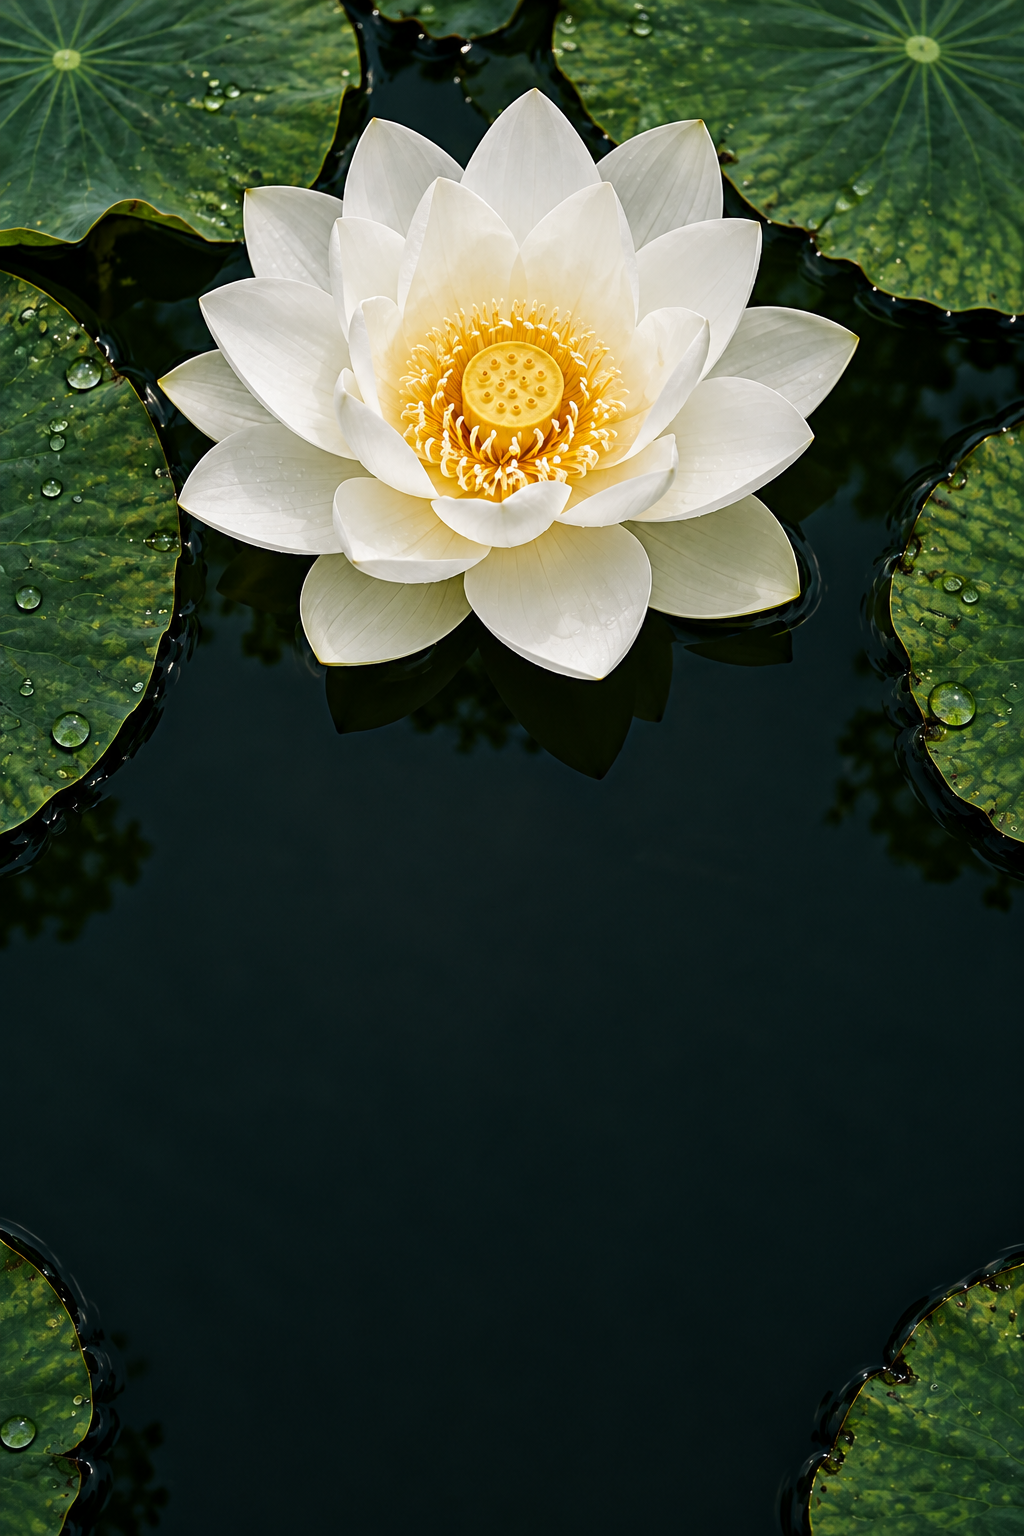
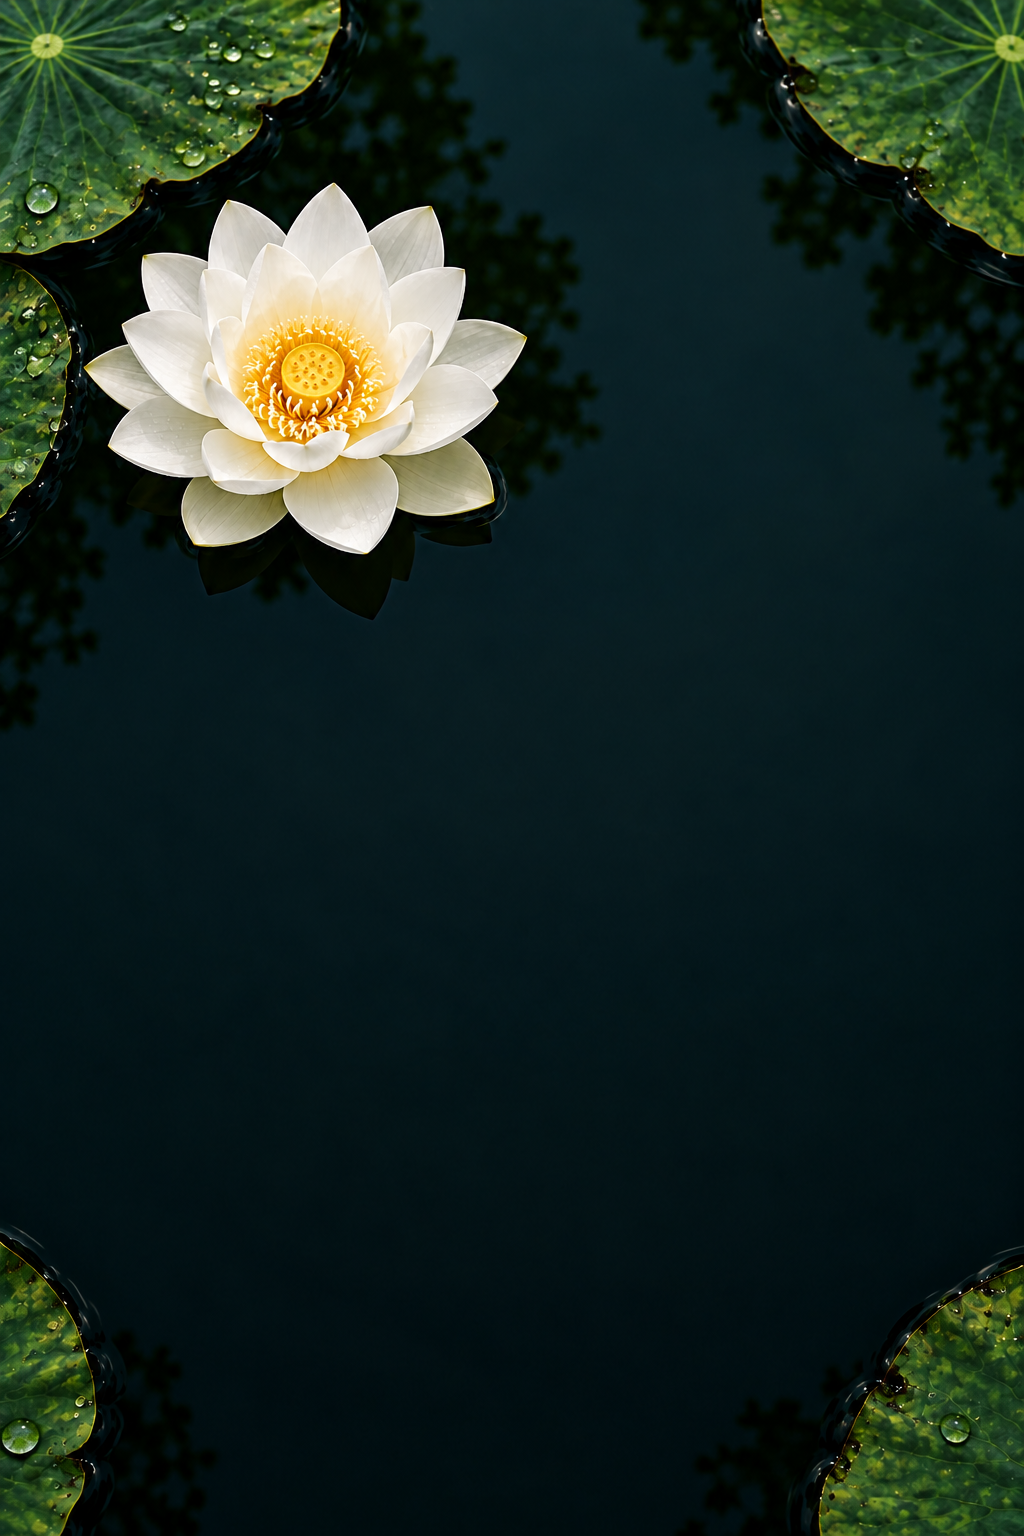
Refine lotus scale and carry the purple thread through the storefront

diff --git a/public/eko-thread.js b/public/eko-thread.js
@@ -1,0 +1,81 @@
+const thread = document.querySelector(".journey-thread");
+const path = thread?.querySelector("path");
+const main = document.querySelector("main");
+const footer = document.querySelector(".footer");
+let threadFrame;
+
+function drawThread() {
+  threadFrame = undefined;
+  if (!thread || !path || !main || !footer) return;
+
+  const root = document.body.getBoundingClientRect();
+  const width = root.width;
+  const height = root.height;
+  const box = (selector) => {
+    const rect = document.querySelector(selector).getBoundingClientRect();
+    return {
+      top: rect.top - root.top,
+      bottom: rect.bottom - root.top,
+      height: rect.height,
+    };
+  };
+  const hero = box(".reference-hero");
+  const story = box(".reference-story");
+  const history = box(".reference-history");
+  const closer = box("#closer");
+  const lotus = box("#meaning");
+  const product = box("#shirt");
+  const end = box(".footer");
+  const right = width - 10;
+  let route;
+
+  if (width > 1000) {
+    const y = (amount) => hero.top + hero.height * amount;
+    route = `M 0 ${y(0.34)}
+      C ${width * 0.1} ${y(0.45)}, ${width * 0.15} ${y(0.27)}, ${width * 0.29} ${y(0.4)}
+      S ${width * 0.4} ${y(0.6)}, ${width * 0.48} ${y(0.52)}
+      C ${width * 0.59} ${y(0.4)}, ${width * 0.62} ${y(0.29)}, ${width * 0.65} ${y(0.48)}
+      S ${width * 0.83} ${y(0.73)}, ${right} ${y(0.58)}
+      C ${width - 2} ${y(0.7)}, ${right} ${y(0.8)}, ${right} ${hero.bottom - 15}`;
+  } else {
+    route = `M 0 ${hero.top + hero.height * 0.34}
+      C ${width * 0.25} ${hero.top + hero.height * 0.45}, ${width * 0.55} ${hero.top + hero.height * 0.27}, ${right} ${hero.top + hero.height * 0.4}
+      L ${right} ${story.top + story.height * 0.3}
+      C ${right} ${story.top + story.height * 0.55}, ${width * 0.25} ${story.top + story.height * 0.55}, 10 ${story.top + story.height * 0.73}
+      L 10 ${history.top + history.height * 0.3}
+      C 10 ${history.top + history.height * 0.5}, ${width * 0.8} ${history.top + history.height * 0.47}, ${right} ${history.top + history.height * 0.6}
+      L ${right} ${history.bottom - 15}`;
+  }
+
+  route += ` C ${right} ${closer.top}, ${width - 4} ${closer.top + closer.height * 0.6}, ${right} ${closer.bottom - 25}`;
+
+  if (width > 700) {
+    route += ` C ${right} ${lotus.top - 5}, ${width * 0.28} ${lotus.top - 10}, ${width * 0.18} ${lotus.top + 40}
+      C ${width * 0.05} ${lotus.top + lotus.height * 0.42}, ${width * 0.36} ${lotus.top + lotus.height * 0.73}, ${width * 0.43} ${lotus.top + lotus.height * 0.82}
+      C ${width * 0.48} ${lotus.top + lotus.height * 0.91}, ${width * 0.8} ${lotus.bottom - 35}, ${right} ${lotus.bottom}`;
+  } else {
+    route += ` C ${right} ${lotus.top + 10}, 8 ${lotus.top - 5}, 8 ${lotus.top + 25}
+      C 2 ${lotus.top + lotus.height * 0.3}, 12 ${lotus.top + lotus.height * 0.6}, 8 ${lotus.bottom - 20}
+      C 8 ${lotus.bottom + 15}, ${right} ${product.top - 15}, ${right} ${product.top + 15}`;
+  }
+
+  route += ` C ${width - 3} ${product.top + product.height * 0.35}, ${width - 20} ${product.top + product.height * 0.65}, ${right} ${product.bottom}
+    C ${right} ${end.bottom - 12}, ${width * 0.93} ${end.bottom - 12}, ${width * 0.84} ${end.bottom - 12}`;
+
+  thread.setAttribute("viewBox", `0 0 ${width} ${height}`);
+  path.setAttribute("d", route);
+}
+
+function scheduleThread() {
+  if (threadFrame === undefined)
+    threadFrame = requestAnimationFrame(drawThread);
+}
+
+if (thread && main && footer) {
+  const observer = new ResizeObserver(scheduleThread);
+  observer.observe(main);
+  observer.observe(footer);
+  addEventListener("resize", scheduleThread);
+  document.fonts.ready.then(scheduleThread);
+  scheduleThread();
+}

diff --git a/public/eko-editorial.css b/public/eko-editorial.css
@@ -2,6 +2,7 @@
   --font-display: georgia, serif;
   --color-stage: #deddd9;
   --color-display-accent: #71637e;
+  --color-thread: #a08ab2;
 }
 
 .eko-final .topbar {
@@ -212,7 +213,7 @@
 
 .reference-thread path {
   fill: none;
-  stroke: #a08ab2;
+  stroke: var(--color-thread);
   stroke-width: 1.5;
   vector-effect: non-scaling-stroke;
 }
@@ -526,9 +527,30 @@
 
 .guide-thread {
   height: 60px;
-  border-top: 1.5px solid #a08ab2;
+  border-top: 1.5px solid var(--color-thread);
   border-radius: 50%;
   margin-block: 30px;
+}
+
+body.eko-final {
+  position: relative;
+}
+
+.journey-thread {
+  position: absolute;
+  inset: 0;
+  width: 100%;
+  height: 100%;
+  z-index: 5;
+  overflow: hidden;
+  pointer-events: none;
+}
+
+.journey-thread path {
+  fill: none;
+  stroke: var(--color-thread);
+  stroke-width: 1.5;
+  vector-effect: non-scaling-stroke;
 }
 
 .lotus-section {
@@ -536,8 +558,8 @@
   isolation: isolate;
   display: flex;
   align-items: center;
-  min-height: 850px;
-  padding-block: 120px;
+  min-height: 620px;
+  padding-block: 80px;
   overflow: hidden;
   background: #0b1c17;
   color: #fff;
@@ -566,19 +588,20 @@
 
 .lotus-layout {
   display: grid;
-  grid-template-columns: 1fr 1fr;
-  gap: 70px;
+  grid-template-columns: 0.8fr 1fr;
+  gap: 24px;
+  max-width: 1120px;
 }
 
 .lotus-copy {
   grid-column: 2;
-  max-width: 590px;
+  max-width: 565px;
   justify-self: end;
 }
 
 .lotus-title {
   font-family: var(--font-display);
-  font-size: clamp(42px, 4.6vw, 72px);
+  font-size: clamp(38px, 3.7vw, 58px);
   font-weight: 400;
   line-height: 1.03;
   letter-spacing: -0.055em;
@@ -625,13 +648,14 @@
 
 @media (width <= 700px) {
   .lotus-section {
-    min-height: 1040px;
-    padding-block: 470px 85px;
-    align-items: end;
+    min-height: 640px;
+    padding-block: 55px 75px;
   }
 
   .lotus-section::after {
-    background: linear-gradient(#07110e00 20%, #07110e99 46%, #07110ef2 76%);
+    background:
+      linear-gradient(90deg, #07110e11, #07110e77),
+      linear-gradient(#07110e00 15%, #07110e99 46%, #07110ef2 76%);
   }
 
   .lotus-image {
@@ -639,19 +663,28 @@
   }
 
   .lotus-layout {
-    display: block;
+    display: grid;
+    grid-template-columns: 0.85fr 1fr;
+    gap: 18px 16px;
   }
 
   .lotus-copy {
-    max-width: none;
+    display: contents;
+  }
+
+  .lotus-copy > .eyebrow,
+  .lotus-title {
+    grid-column: 2;
   }
 
   .lotus-title {
-    font-size: clamp(38px, 10vw, 58px);
-    margin-block: 24px;
+    font-size: clamp(28px, 7vw, 42px);
+    margin: 0 0 12px;
   }
 
   .lotus-copy > p:not(.eyebrow) {
+    grid-column: 1 / -1;
+    margin-top: 0;
     font-size: 15px;
     line-height: 1.75;
   }

diff --git a/public/index.html b/public/index.html
@@ -22,11 +22,20 @@
     <link rel="stylesheet" href="eko-finish.css" />
     <link rel="stylesheet" href="eko-editorial.css" />
     <script src="eko-motion.js" defer></script>
+    <script src="eko-thread.js" defer></script>
   </head>
 
   <body class="postmodern eko-final">
     <a class="skip" href="#main">Skip to content</a>
 
+    <svg
+      class="journey-thread"
+      aria-hidden="true"
+      focusable="false"
+      preserveAspectRatio="none"
+    >
+      <path />
+    </svg>
     <main id="main">
       <div class="reference-panels">
         <section class="reference-hero" aria-labelledby="hero-title">
@@ -66,14 +75,6 @@
             fetchpriority="high"
           />
           <a class="reference-scroll" href="#closer">Scroll to look within ↓</a>
-          <svg
-            class="reference-thread thread-one"
-            viewBox="0 0 400 800"
-            preserveAspectRatio="none"
-            aria-hidden="true"
-          >
-            <path d="M-40 255 C80 375 80 255 225 330 S400 365 450 375" />
-          </svg>
         </section>
         <section
           id="story"
@@ -92,16 +93,6 @@
             Not everything<br />we carry<br /><em>can be seen.</em>
           </h2>
           <p class="reference-story-foot">There is strength in continuing.</p>
-          <svg
-            class="reference-thread thread-two"
-            viewBox="0 0 400 800"
-            preserveAspectRatio="none"
-            aria-hidden="true"
-          >
-            <path
-              d="M220 -30 C180 60 460 20 360 230 S350 355 210 420 S80 365 -30 375"
-            />
-          </svg>
         </section>
         <section class="reference-history" aria-labelledby="history-title">
           <img
@@ -132,14 +123,6 @@
               affiliation or endorsement.
             </p>
           </div>
-          <svg
-            class="reference-thread thread-three"
-            viewBox="0 0 400 800"
-            preserveAspectRatio="none"
-            aria-hidden="true"
-          >
-            <path d="M-20 540 C85 465 155 565 280 475 S380 405 440 460" />
-          </svg>
         </section>
       </div>
       <div class="reference-intro frame">

diff --git a/tests/browser/thread.spec.js b/tests/browser/thread.spec.js
@@ -1,0 +1,54 @@
+import { test, expect } from "@playwright/test";
+
+test("the continuous thread reaches the lotus and footer after layout changes", async ({
+  page,
+}) => {
+  await page.emulateMedia({ reducedMotion: "reduce" });
+  await page.goto("/");
+  const coverage = () =>
+    page.evaluate(() => {
+      const svg = document.querySelector(".journey-thread");
+      const path = svg.querySelector("path");
+      const bounds = svg.getBoundingClientRect();
+      const view = svg.viewBox.baseVal;
+      const lotus = document.querySelector("#meaning").getBoundingClientRect();
+      const footer = document.querySelector(".footer").getBoundingClientRect();
+      const length = path.getTotalLength();
+      const point = (distance) => {
+        const p = path.getPointAtLength(distance);
+        return {
+          x: bounds.left + (p.x * bounds.width) / view.width,
+          y: bounds.top + (p.y * bounds.height) / view.height,
+        };
+      };
+      const end = point(length);
+      const hasLotus = Array.from({ length: 501 }, (_, i) =>
+        point((length * i) / 500),
+      ).some(
+        (p) =>
+          p.y >= lotus.top &&
+          p.y <= lotus.bottom &&
+          p.x >= lotus.left &&
+          p.x <= lotus.right,
+      );
+      return {
+        hasLotus,
+        endsInFooter:
+          end.y >= footer.top &&
+          end.y <= footer.bottom &&
+          end.x >= footer.left &&
+          end.x <= footer.right,
+      };
+    });
+  await expect.poll(coverage).toEqual({ hasLotus: true, endsInFooter: true });
+  await page.locator("#eko-motion-toggle").click();
+  await expect.poll(coverage).toEqual({ hasLotus: true, endsInFooter: true });
+  await page.setViewportSize({ width: 390, height: 844 });
+  await expect.poll(coverage).toEqual({ hasLotus: true, endsInFooter: true });
+  // The decorative layer must leave the real product controls usable.
+  await page.locator('input[name="size"][value="M"]').check();
+  await page
+    .getByRole("button", { name: "Add to demo bag", exact: true })
+    .click();
+  await expect(page.locator("#bag-count")).toHaveText("1");
+});

diff --git a/public/styleguide.html b/public/styleguide.html
@@ -233,8 +233,9 @@
         <h2 id="thread-title">A thread through the story.</h2>
         <div class="guide-thread" aria-hidden="true"></div>
         <p>
-          A fine lavender line links the three opening chapters. It is
-          decorative, never a navigation control. Keep the shirt white; ivory
+          A single fine lavender line follows the entire storefront, from the
+          opening chapters through the close-up, lotus, product and footer. It
+          is decorative, never a navigation control. Keep the shirt white; ivory
           and lavender patchwork belongs only to the remembrance illustration.
         </p>
         <img
@@ -260,9 +261,9 @@
           The “Why white” chapter fills the section edge to edge with a
           bird’s-eye botanical image. White petals echo the garment, while green
           lily pads and dark water belong to the photograph. White serif type
-          sits over a dark gradient; a separate portrait crop keeps the flower
-          above the text on phones. This is AI-generated concept imagery, not a
-          product-material claim.
+          sits immediately beside a smaller lotus over a dark gradient. On
+          phones the headline stays beside the flower, with body copy below.
+          This is AI-generated concept imagery, not a product-material claim.
         </p>
       </section>
       <section

diff --git a/SPEC.md b/SPEC.md
@@ -103,3 +103,9 @@ Validation before publication: formatting, HTML/CSS/JavaScript lint, seven serve
 Replaces the abstract sphere in `#meaning` with an overhead white lotus in pond water and green lily pads. The photograph fills the whole section; copy overlays a dark gradient. A dedicated portrait image keeps the lotus above the text on narrow screens. Both images are AI-generated botanical mood studies. The shirt and demo bag are unchanged, and the guide documents the matching imagery and layout.
 
 Files: `public/index.html`, `public/eko-editorial.css`, `public/styleguide.html`, `public/assets/eko-lotus.png`, `public/assets/eko-lotus-mobile.png`. The existing deployment verification additionally loads the mobile lotus asset and checks the section fills the viewport width.
+
+### Lotus scale and continuous thread
+
+The lotus and chapter height are reduced; desktop copy sits immediately beside the flower. On phones the smaller flower and headline share a row, followed by body text. One decorative SVG thread now follows the full storefront through the opening, close-up, lotus, product and footer. It uses the guide’s shared thread-color token, ignores pointer events, and has no animation. Its route adjusts to responsive wrapping, motion controls and bag-related height changes.
+
+`public/eko-thread.js` supplies the continuous route; `tests/browser/thread.spec.js` verifies that it still passes through the lotus and ends in the footer after motion and viewport changes, while the bag remains usable. Formatting, lint, 7 server tests and all 14 browser tests passed with system Chromium. GitHub Actions additionally checks the deployed thread after mobile resizing. Human observations remain separate from these checks.
